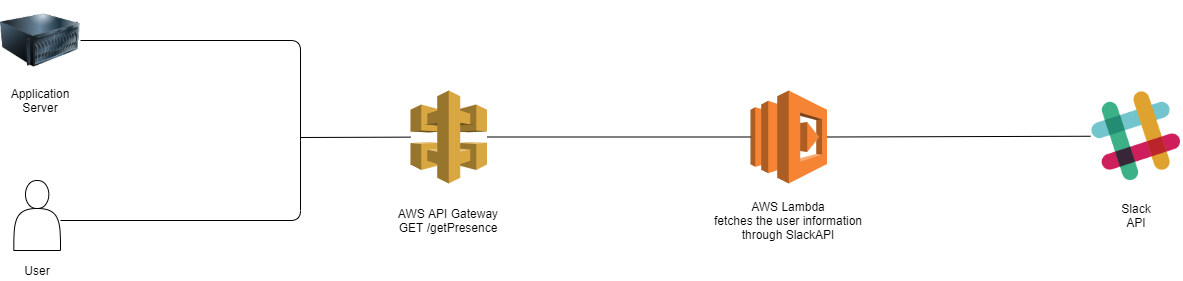
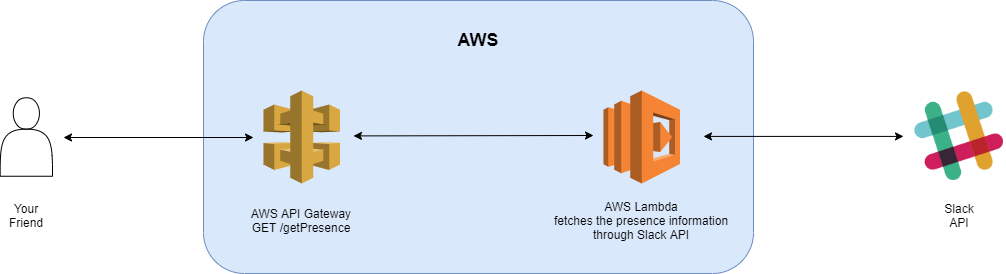
Updated docs

diff --git a/README.md b/README.md
@@ -1,5 +1,13 @@
 # slack-presence-proxy
 
+Anybody will be able to see your availability during the home office without Slack account. You just have to provide the public HTTP endpoint for your service.
+
 ## Software Architecture Overview
 
 ![Software Architecture](doc/architecture.png)
+
+## Configuration
+
+- `SLACK_USER_SECRET` - User to get presence info on. This is the authed user.
+
+- `SLACK_AUTH_TOKEN` - Authentication token bearing required scopes.
